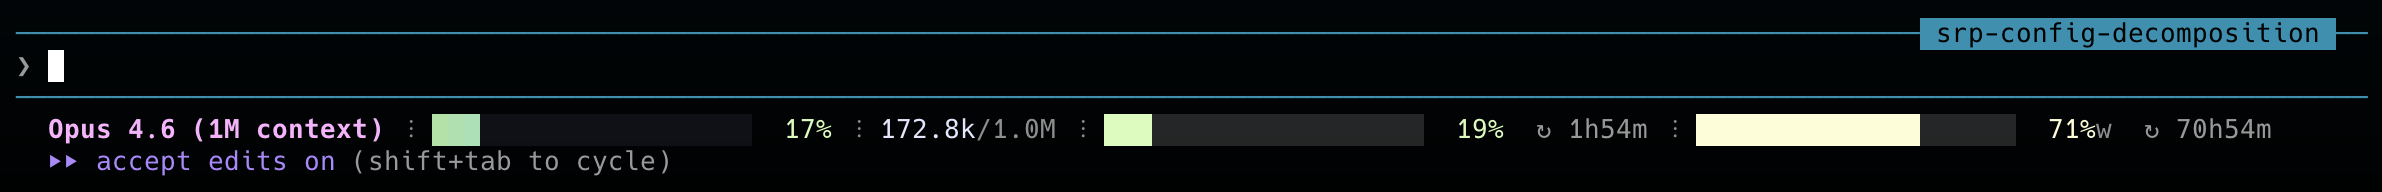
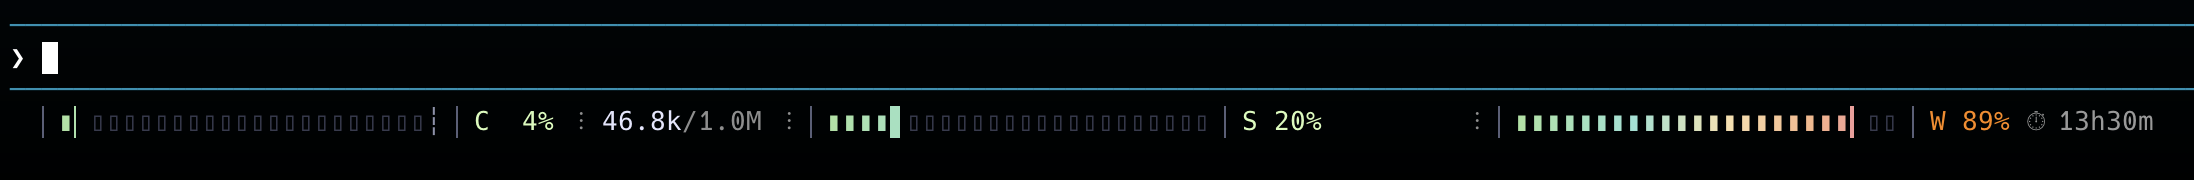
docs: update README and screenshots for v0.8.3
- Update all 4 screenshots (statusline, compact, monitor, configurator)
- Update statusline ASCII art to match current format (C/S/W labels,
  ⚡ token suffix, ⏱ countdown icons, threshold markers)
- Update claude_tui_components description to mention line-level widgets
- Update claude_tui_core description to reflect formatting.py split
- Replace duplicate session-dashboard image ref with monitor-demo

diff --git a/README.md b/README.md
@@ -143,11 +143,11 @@ Customize behavior via `~/.claude/claudeui.json` (hot-reloads, no restart needed
 
 ### [claude_tui_components](./claude_tui_components/)
 
-A centralized UI library containing all shared visual elements (progress bars, sparklines, string truncation utilities, and color sequences). It is dynamically injected via `PYTHONPATH` during subprocess execution, ensuring a single unified true-color aesthetic across the statusline, monitor dashboard, and interactive configurator (mode custom) without code duplication.
+A centralized UI library containing all shared visual elements (progress bars, sparklines, line-level widgets, string truncation utilities, and color sequences). It is dynamically injected via `PYTHONPATH` during subprocess execution, ensuring a single unified true-color aesthetic across the statusline, monitor dashboard, and interactive configurator (mode custom) without code duplication.
 
 ### [claude_tui_core](./claude_tui_core/)
 
-The centralized domain logic layer following SOLID/SRP principles. It manages the single source of truth for Anthropic model data (pricing, context windows), handles all external HTTP communication (status page polling, OAuth usage tracking), and provides a unified configuration loader with high-performance hot-reloading. The network layer uses lock-aware caching with explicit typed exception handling, and model pricing includes deterministic fuzzy aliases for shorthand keys like `opus`, `sonnet3`, and `haiku4`.
+The centralized domain logic layer following SOLID/SRP principles. It manages the single source of truth for Anthropic model data (pricing, context windows), handles all external HTTP communication (status page polling, OAuth usage tracking with User-Agent-aware rate limit handling), provides display formatting for status and usage data, and offers a unified configuration loader with hot-reloading. The network layer uses lock-aware caching with exponential backoff, and model pricing includes deterministic fuzzy aliases for shorthand keys like `opus`, `sonnet3`, and `haiku4`.
 
 ### [claude-code-statusline](./claude-code-statusline/)
 
@@ -156,14 +156,14 @@ Real-time status bar for Claude Code with context sparkline, session cost, cache
 For troubleshooting refresh/caching/parsing behavior, you can enable statusline diagnostics with `STATUSLINE_DEBUG=1` (logs to stderr). See the [statusline README](./claude-code-statusline/README.md) for details.
 
 ```
-  0110100 Opus 4.6 │ ████████████████████ 42% 112k/1.0M │ ~24 turns left │ ▁▂▃▅▆▇↓▁▃▅ │ $2.34 │ 12m │ 0x compact │ #a1b2c3d4
-  1001011 ████████████████████ 15%  ↻ 2h   │ main +42 -17 │ 18 turns │ 5 files │ 0 err │ 82% cache │ 4x think │ ~$0.13/turn
-  0110010 ████████████████████ 73%w  ↻ 3h   │ read statusline.py → edit statusline.py → bash python3 → edit README.md │ statusline.py×3 README.md×1
+  0110100 ████████████████████┆ C 26% ⚡268.2k/1.0M ⋮ ETA 408 turns ⋮ CMP 8x ⋮ △ partial outage
+  1001011 ████████████████████ S  4% ⏱ 4h42m ⋮ AGT 75
+  0110010 ████████████████████ W 83% ⏱ 44h42m ⋮ bash docker → agent
 ```
 
-Line 1: Context bar (progress + percentage + tokens)  
-Line 2: Session usage bar (5-hour limit) + project telemetry  
-Line 3: Weekly usage bar + tool trace + file edits
+Line 1: Context bar (`C` percentage + `⚡` tokens/limit) + compaction ETA + status  
+Line 2: Session usage bar (`S` 5-hour limit + `⏱` countdown) + telemetry chips  
+Line 3: Weekly usage bar (`W` 7-day limit + `⏱` countdown) + tool trace + file edits
 
 ### [claude-code-session-stats](./claude-code-session-stats/)
 
@@ -252,7 +252,7 @@ Custom slash commands for deep session analytics on demand. Install to `~/.claud
 
 Live session dashboard for a separate terminal. Live duration, activity status, cost burn rate, tool trace, error details, auto-follow, and interactive hotkeys — all in the alternate screen buffer.
 
-![Session Dashboard](assets/session-dashboard.png)
+![Monitor Dashboard](assets/monitor-demo.png)
 
 ```bash
 python3 claude-code-monitor/monitor.py           # auto-detect active session
